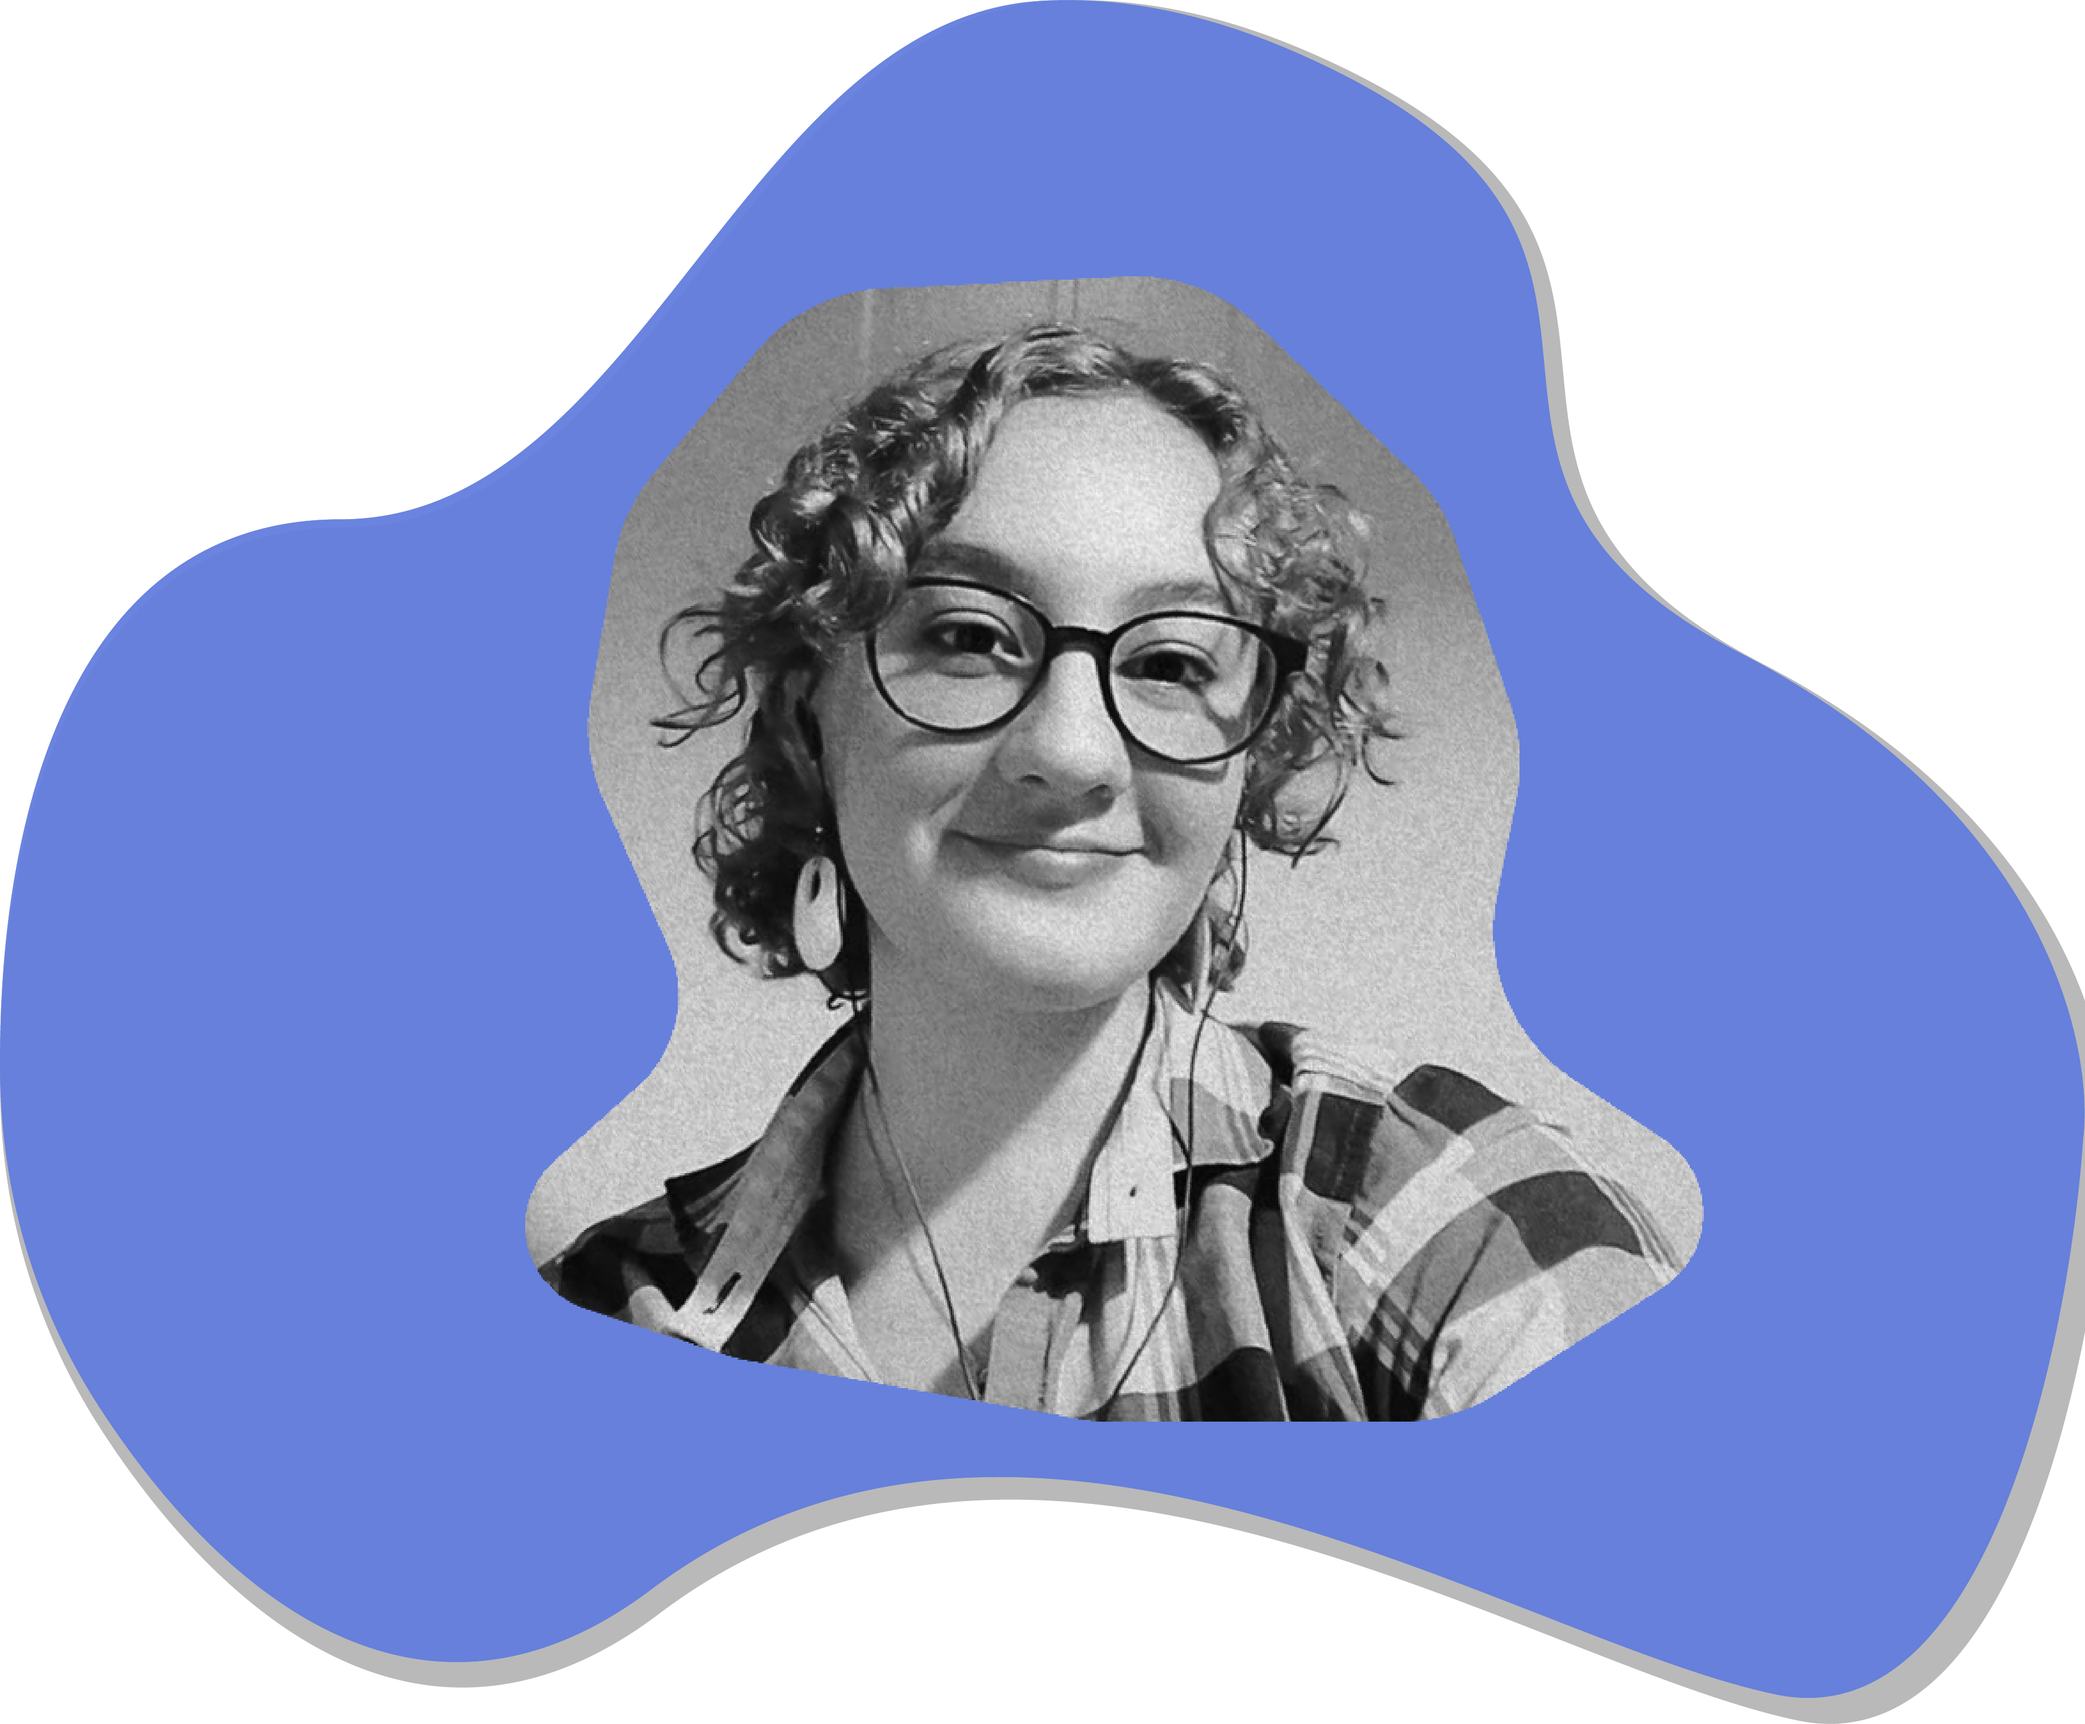
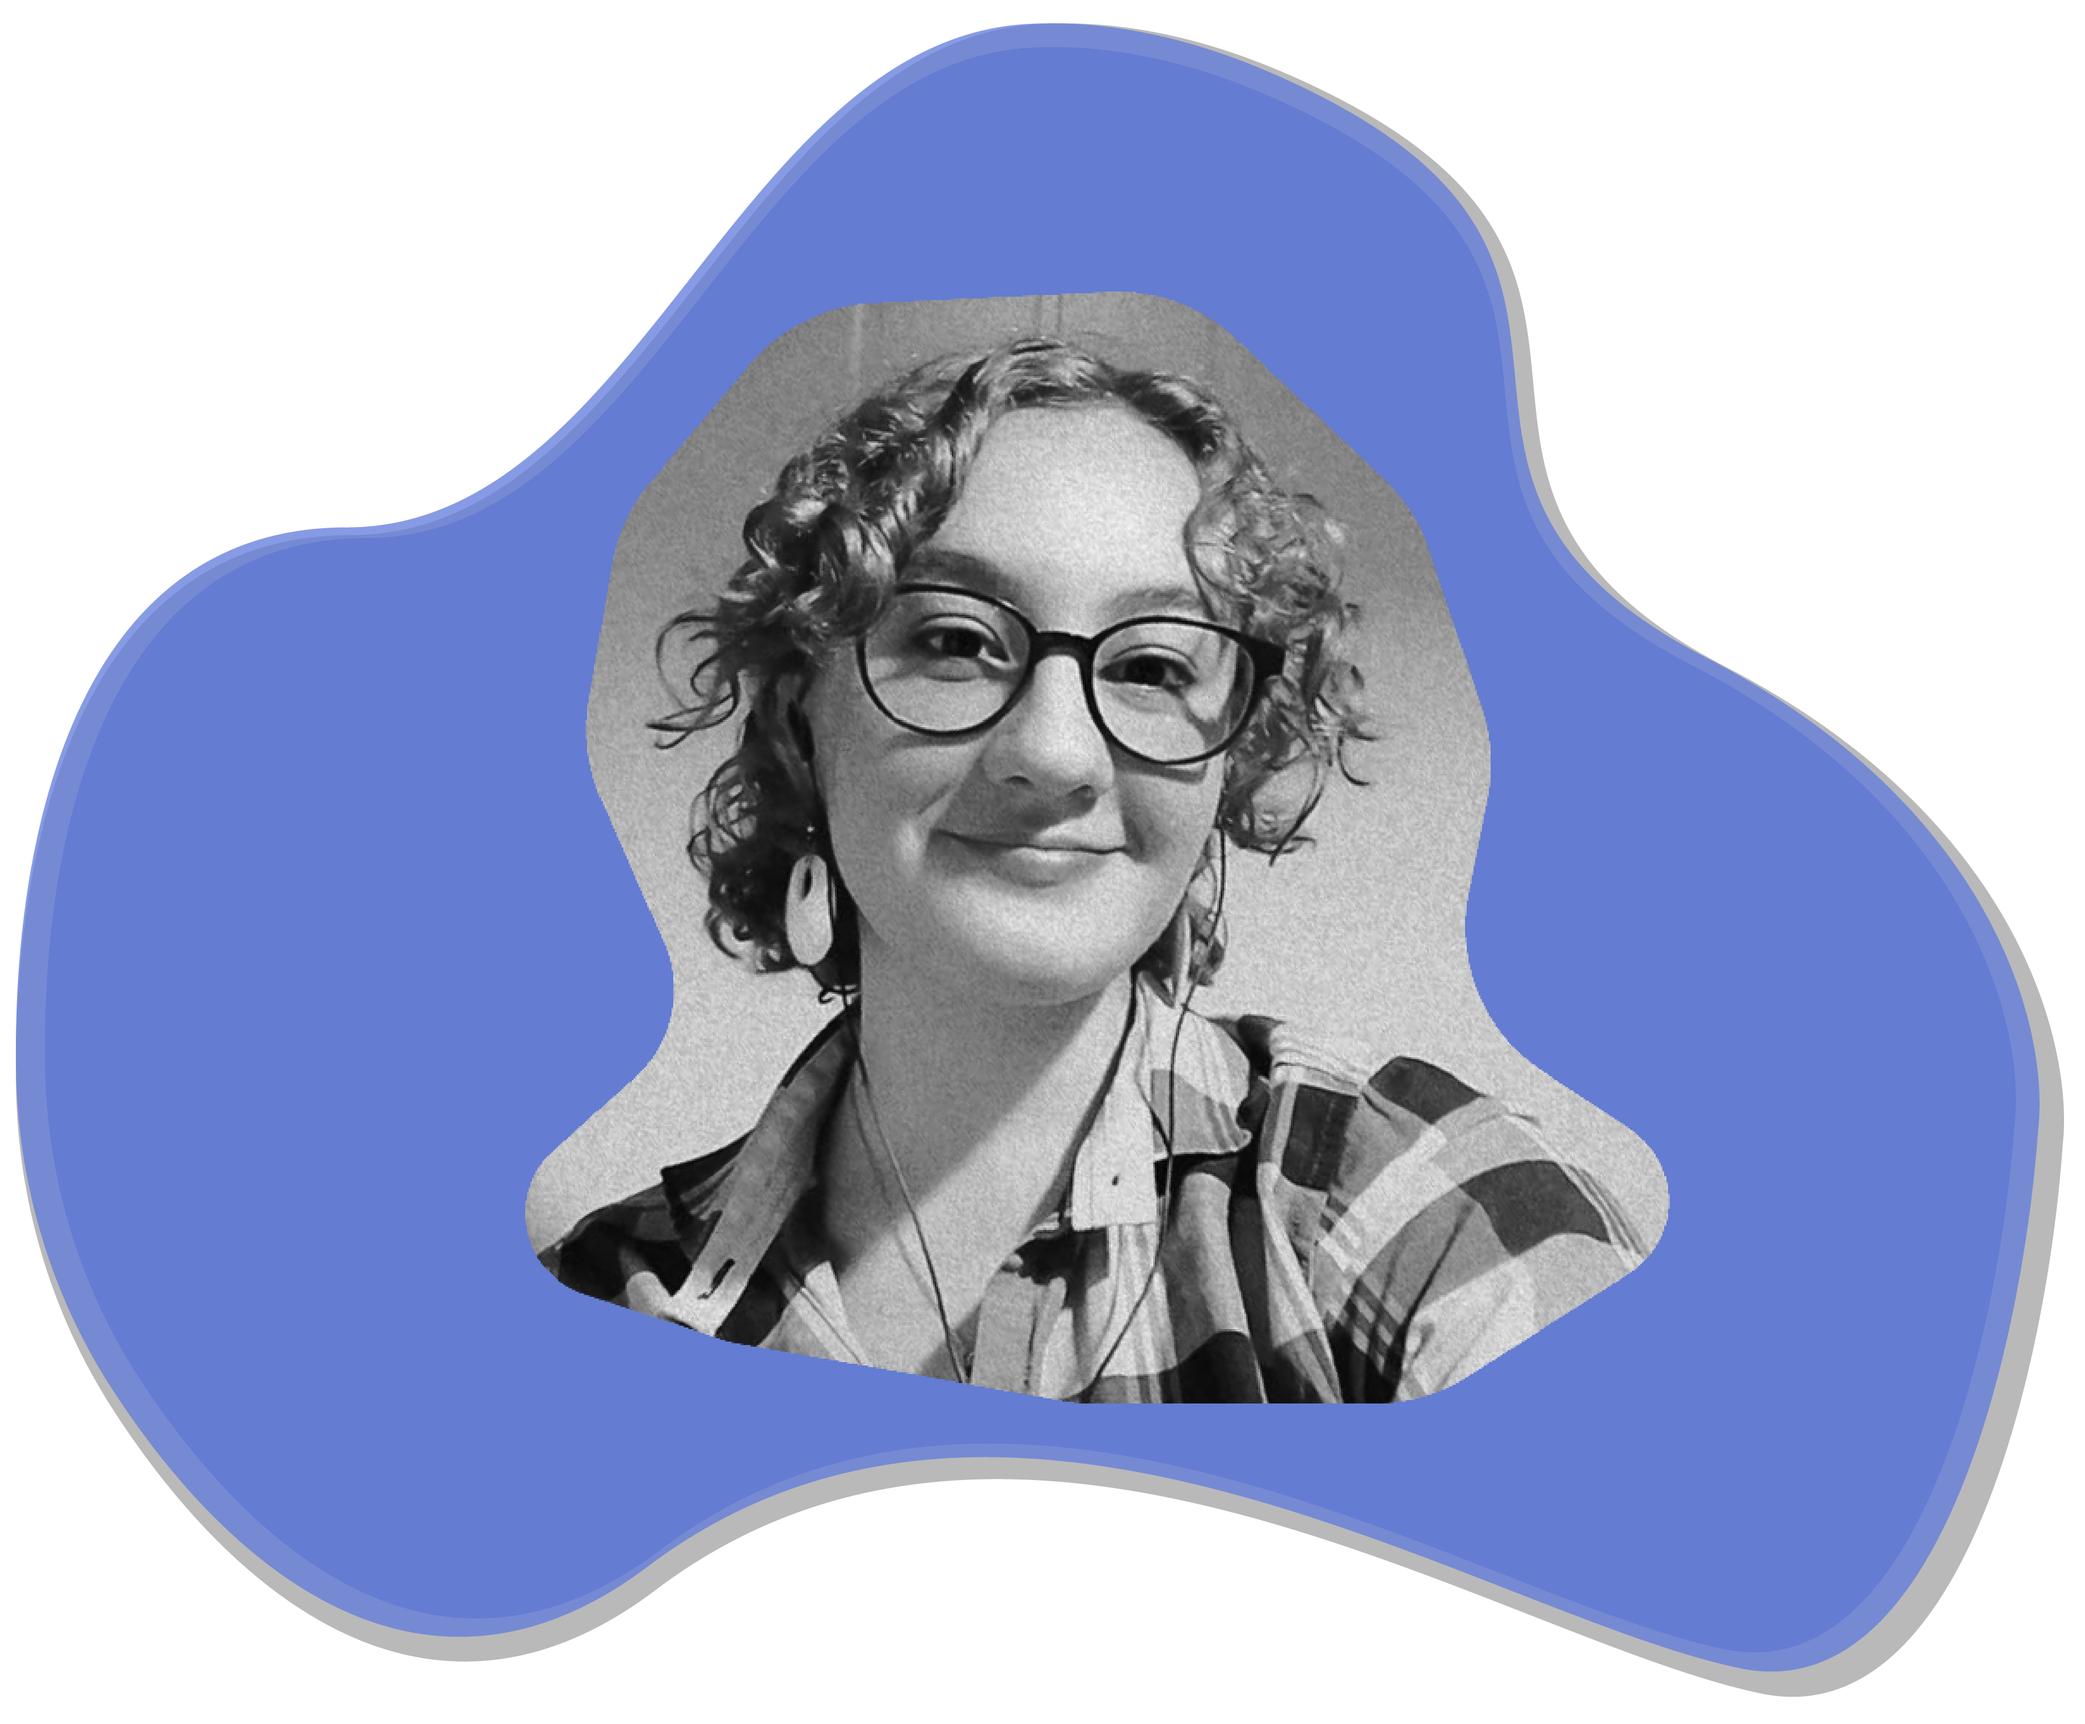
About Me Section Ready

diff --git a/portfolio/src/components/sections/Home.js b/portfolio/src/components/sections/Home.js
@@ -12,9 +12,15 @@ function Home(){
                <p>
                Lorem ipsum dolor sit amet, consectetur adipiscing elit. Curabitur risus metus, varius eu sapien non, gravida scelerisque felis. Ut sed egestas mi, sit amet vestibulum orci. Morbi rutrum vehicula arcu id egestas. Nunc lobortis pellentesque justo, quis fringilla eros accumsan eget. Aliquam est odio, volutpat ut urna eu, faucibus sodales diam. 
                </p>
+               <div className="ButtonsContainer">
+               <button className='Button' style={{backgroundColor: '#9997f1'}}>
+                    Resumé
+               </button>
                <button className='Button'>
                     Projects
                </button>
+               </div>
+
            </div>
         </div>
     );

diff --git a/portfolio/src/components/sections/AboutMe.js b/portfolio/src/components/sections/AboutMe.js
@@ -1,4 +1,4 @@
-import Ilustracion from '../../assets/Ilustracion.png'
+import Ilustracion from '../../assets/AboutMe.png'
 import Scroll from 'react-scroll';
 import '../../styles/AboutMe.css';
 
@@ -7,10 +7,8 @@ const ScrollLink = Scroll.ScrollLink;
 function AboutMe(){
     return(
         <div className="AboutMe" style={{minHeight:"200px"}}>
-       <h2>
-           About me 
-       </h2>
-       <img className="Ilustracion" src={Ilustracion} alt="Logo" />
+            <h2 className="Title">About Me</h2>
+       <img className="Ilustracion" src={Ilustracion} alt="Logo"/>
         </div>
     );
 }

diff --git a/portfolio/src/styles/Home.css b/portfolio/src/styles/Home.css
@@ -1,23 +1,25 @@
 .Home {
     display: flex;
     justify-content: space-evenly;
-    height: auto;
+    height: 100vh;
 }
 .Left{
     background-image: url('../assets/Yo.png');
     background-repeat: no-repeat;
     background-size: contain;
-    width: 50%;
+    width: 40%;
     min-height: 500px;
 }
 
 
 .Right {
+    padding-top: 5% ;
     width: 40%;
 
 }
 
 .Button {
+    margin: 1%;
     margin-top: 5%;
     background-color: #D497F1;
     border-radius: 10px;

diff --git a/portfolio/src/styles/AboutMe.css b/portfolio/src/styles/AboutMe.css
@@ -1,3 +1,3 @@
 .Ilustracion{
-    max-width: 30%;
+    height: 100vh;
 }
